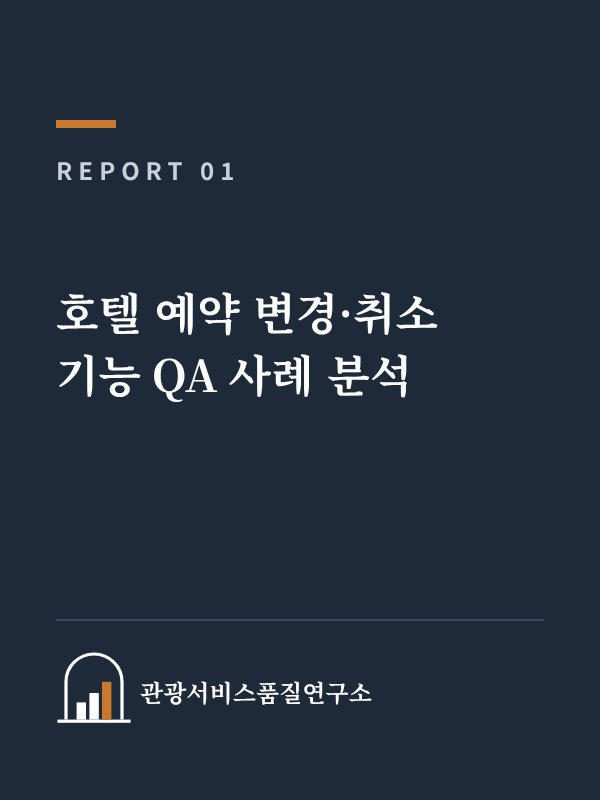
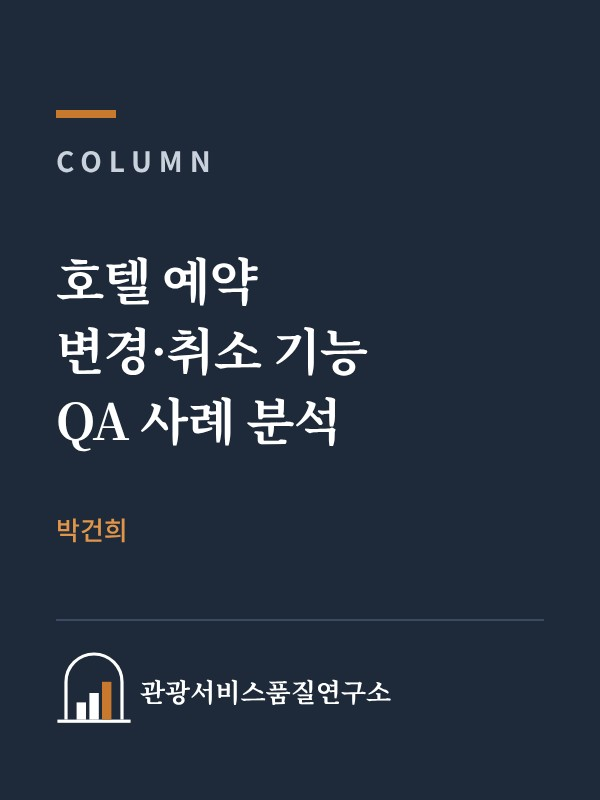
칼럼 7편 세로형 표지 추가(COLUMN·필자·로고), 홈 칼럼 표지 확대
Claude-Session: https://claude.ai/code/session_01GuA5AHQ235NWh93TgZjSNS

diff --git a/src/style.css b/src/style.css
@@ -397,3 +397,5 @@ button.cs-card[aria-pressed="true"] { box-shadow: inset 3px 0 0 var(--accent); p
 .drag-row:focus-visible { outline: 2px solid var(--logo-orange); outline-offset: 4px; }
 .drag-hint { font-size: 12.5px; color: var(--muted); margin-right: 12px; }
 @media (max-width: 640px) { .drag-row .report { flex-basis: 86%; } .drag-hint { display: none; } }
+.drag-row .cover { flex: 0 0 132px; height: 176px; border: 0; }
+@media (max-width: 640px) { .drag-row .cover { flex-basis: 108px; height: 144px; } }

diff --git a/scripts/thumbs/covers_columns.py b/scripts/thumbs/covers_columns.py
@@ -1,0 +1,46 @@
+"""칼럼 표지(600x800) 생성 — 홈 칼럼 목록에 쓰는 세로형 표지
+사용법: python3 scripts/thumbs/covers_columns.py
+새 칼럼을 쓰면 COVERS에 (슬러그: (제목 줄 목록, 필자명))을 추가하고 다시 실행한 뒤,
+글 프론트매터에 cover: /images/posts/<슬러그>-cover.jpg 를 넣는다.
+제목은 한 줄 12자 안팎, 2~3줄로 나눈다.
+"""
+import os, io
+from PIL import Image
+from playwright.sync_api import sync_playwright
+
+ROOT = os.path.dirname(os.path.dirname(os.path.dirname(os.path.abspath(__file__))))
+OUT = os.path.join(ROOT, 'static', 'images', 'posts')
+NAVY, ORANGE, WHITE = '#1E2A3A', '#C8792D', '#FFFFFF'
+FONT = "'Noto Sans CJK KR','Noto Sans KR',sans-serif"
+SERIF = "'Noto Serif CJK KR','Noto Serif KR',serif"
+LOGO = lambda x, y, s: f'<g transform="translate({x} {y}) scale({s})"><path d="M50 347 V160 A140 140 0 0 1 330 160 V347" fill="none" stroke="{WHITE}" stroke-width="16"/><rect x="7" y="348" width="366" height="16" fill="{WHITE}"/><rect x="103" y="262" width="47" height="86" fill="{WHITE}"/><rect x="167" y="215" width="47" height="133" fill="{WHITE}"/><rect x="230" y="159" width="47" height="189" fill="{ORANGE}"/></g>'
+
+COVERS = {
+    'column-testing-is-asking': (['테스트는', '질문이다'], '박건희'),
+    'column-kiosk-and-front-manager': (['키오스크가 두려웠던', '프런트 매니저가', '품질을 묻게 되기까지'], '박건희'),
+    'column-housekeeping-seven-principles': (['하우스키핑 점검표로', '읽는 소프트웨어', '테스트 7원칙'], '박건희'),
+    'report-ai-agent-qa-workflow': (['AI 에이전트와', '함께하는', 'QA 업무 가이드'], '박건희'),
+    'report-cancellation-qa-case': (['호텔 예약', '변경·취소 기능', 'QA 사례 분석'], '박건희'),
+    'report-risk-based-testing-hotel': (['호텔 시스템의', '리스크 기반 테스트'], '박건희'),
+    'report-hotel-kiosk-sstqual-flow': (['호텔 키오스크는', '무엇으로 고객을', '몰입하게 하는가'], '박건희'),
+}
+
+def svg(lines, author):
+    t = ''.join(f'<text x="56" y="{300 + i*70}" style="font-family:{SERIF}" font-size="50" font-weight="700" fill="{WHITE}" letter-spacing="-1">{l}</text>' for i, l in enumerate(lines))
+    return f'''<svg xmlns="http://www.w3.org/2000/svg" width="600" height="800" viewBox="0 0 600 800" font-family="{FONT}"><rect width="600" height="800" fill="{NAVY}"/>
+<rect x="56" y="110" width="60" height="8" fill="{ORANGE}"/>
+<text x="56" y="172" font-size="28" font-weight="700" fill="#C9D1DC" letter-spacing="7">COLUMN</text>{t}
+<text x="56" y="{300 + len(lines)*70 + 30}" font-size="26" font-weight="500" fill="#E0954A">{author}</text>
+<line x1="56" y1="620" x2="544" y2="620" stroke="#3A4A62" stroke-width="2"/>{LOGO(56, 650, 0.2)}
+<text x="140" y="702" style="font-family:{SERIF}" font-size="26" font-weight="700" fill="{WHITE}">관광서비스품질연구소</text></svg>'''
+
+if __name__ == '__main__':
+    with sync_playwright() as p:
+        b = p.chromium.launch(executable_path='/usr/bin/google-chrome')
+        pg = b.new_page(viewport={'width': 600, 'height': 800})
+        for slug, (lines, author) in COVERS.items():
+            pg.set_content(f'<html><body style="margin:0">{svg(lines, author)}</body></html>'); pg.wait_for_timeout(150)
+            png = pg.screenshot(clip={'x': 0, 'y': 0, 'width': 600, 'height': 800})
+            Image.open(io.BytesIO(png)).convert('RGB').save(os.path.join(OUT, f'{slug}-cover.jpg'), 'JPEG', quality=90, optimize=True)
+            print('ok', slug)
+        b.close()

diff --git a/content/posts/column-kiosk-and-front-manager.md b/content/posts/column-kiosk-and-front-manager.md
@@ -5,6 +5,7 @@ category: column
 author: director
 thumbnail: /images/posts/column-kiosk-and-front-manager.jpg
 thumbnail_alt: 기사 내용을 요약한 일러스트
+cover: /images/posts/column-kiosk-and-front-manager-cover.jpg
 date: 2026-11-01
 summary: 해외 브랜드 체인 호텔의 프런트 오피스 매니저였던 필자가 키오스크에 대한 두려움에서 출발해 호텔 솔루션 기업의 QA 담당자가 되기까지, 그리고 그 과정에서 현장 경험이 품질관리의 언어로 바뀐 순간을 돌아본다.
 tags: [칼럼, 소장칼럼, 키오스크, 호텔인력, 소프트웨어QA]

diff --git a/content/posts/column-housekeeping-seven-principles.md b/content/posts/column-housekeeping-seven-principles.md
@@ -5,6 +5,7 @@ category: column
 author: director
 thumbnail: /images/posts/column-housekeeping-seven-principles.jpg
 thumbnail_alt: 기사 내용을 요약한 일러스트
+cover: /images/posts/column-housekeeping-seven-principles-cover.jpg
 date: 2026-11-01
 summary: ISTQB가 정리한 소프트웨어 테스트 7원칙을 객실 점검, 민원 객실, 5성급과 비즈니스 호텔의 기준 차이 같은 호텔 현장의 언어로 다시 읽는다. 품질을 다루는 원리는 산업을 넘어 통한다.
 tags: [칼럼, 소장칼럼, 테스트원칙, ISTQB, 서비스품질, 하우스키핑]

diff --git a/content/posts/column-testing-is-asking.md b/content/posts/column-testing-is-asking.md
@@ -5,6 +5,7 @@ category: column
 author: director
 thumbnail: /images/posts/column-testing-is-asking.jpg
 thumbnail_alt: 기사 내용을 요약한 일러스트
+cover: /images/posts/column-testing-is-asking-cover.jpg
 date: 2026-11-01
 summary: 동등 분할, 경곗값 분석, 결정 테이블, 상태 전이는 모두 하나의 질문으로 요약된다. 703호 이중 배정을 막은 것도 회의실에서 던진 질문 하나였다. 테스트 기법과 AI 활용을 질문의 관점에서 다시 읽는다.
 tags: [칼럼, 소장칼럼, 테스트기법, AI에이전트, 소프트웨어QA]
